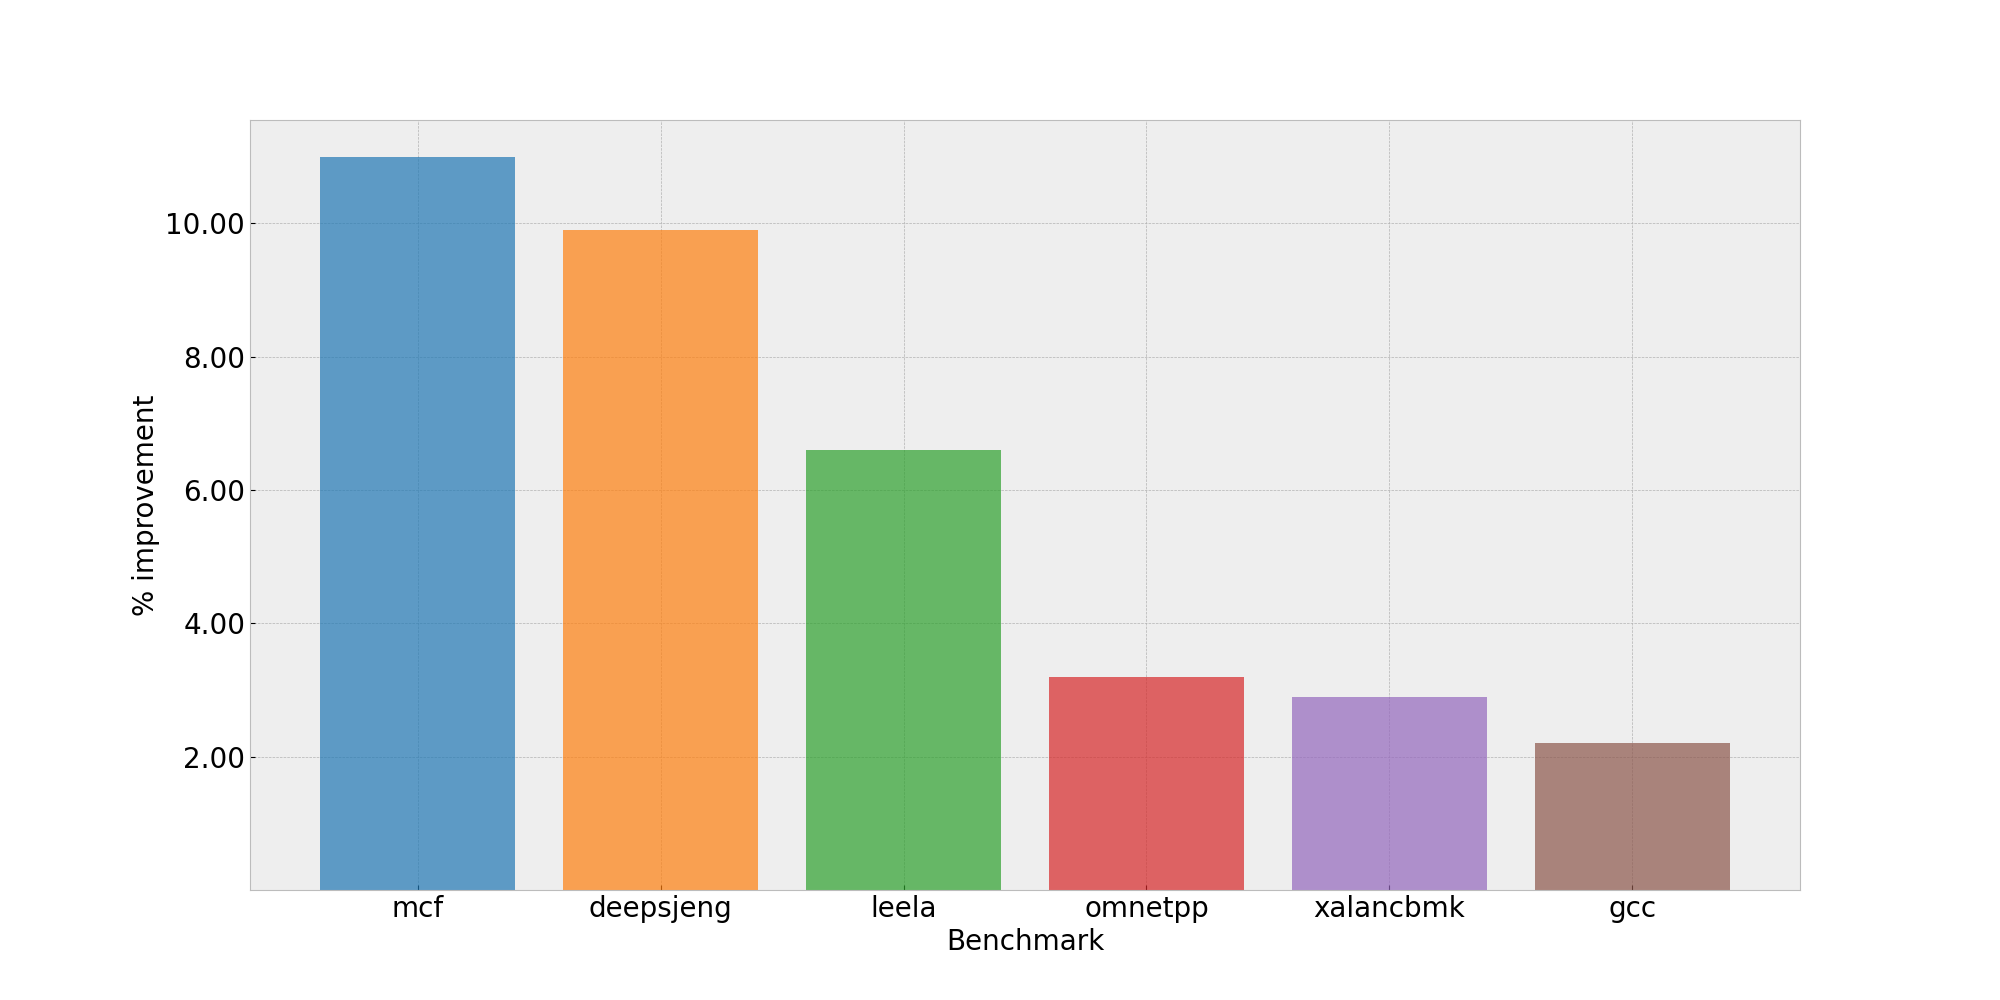
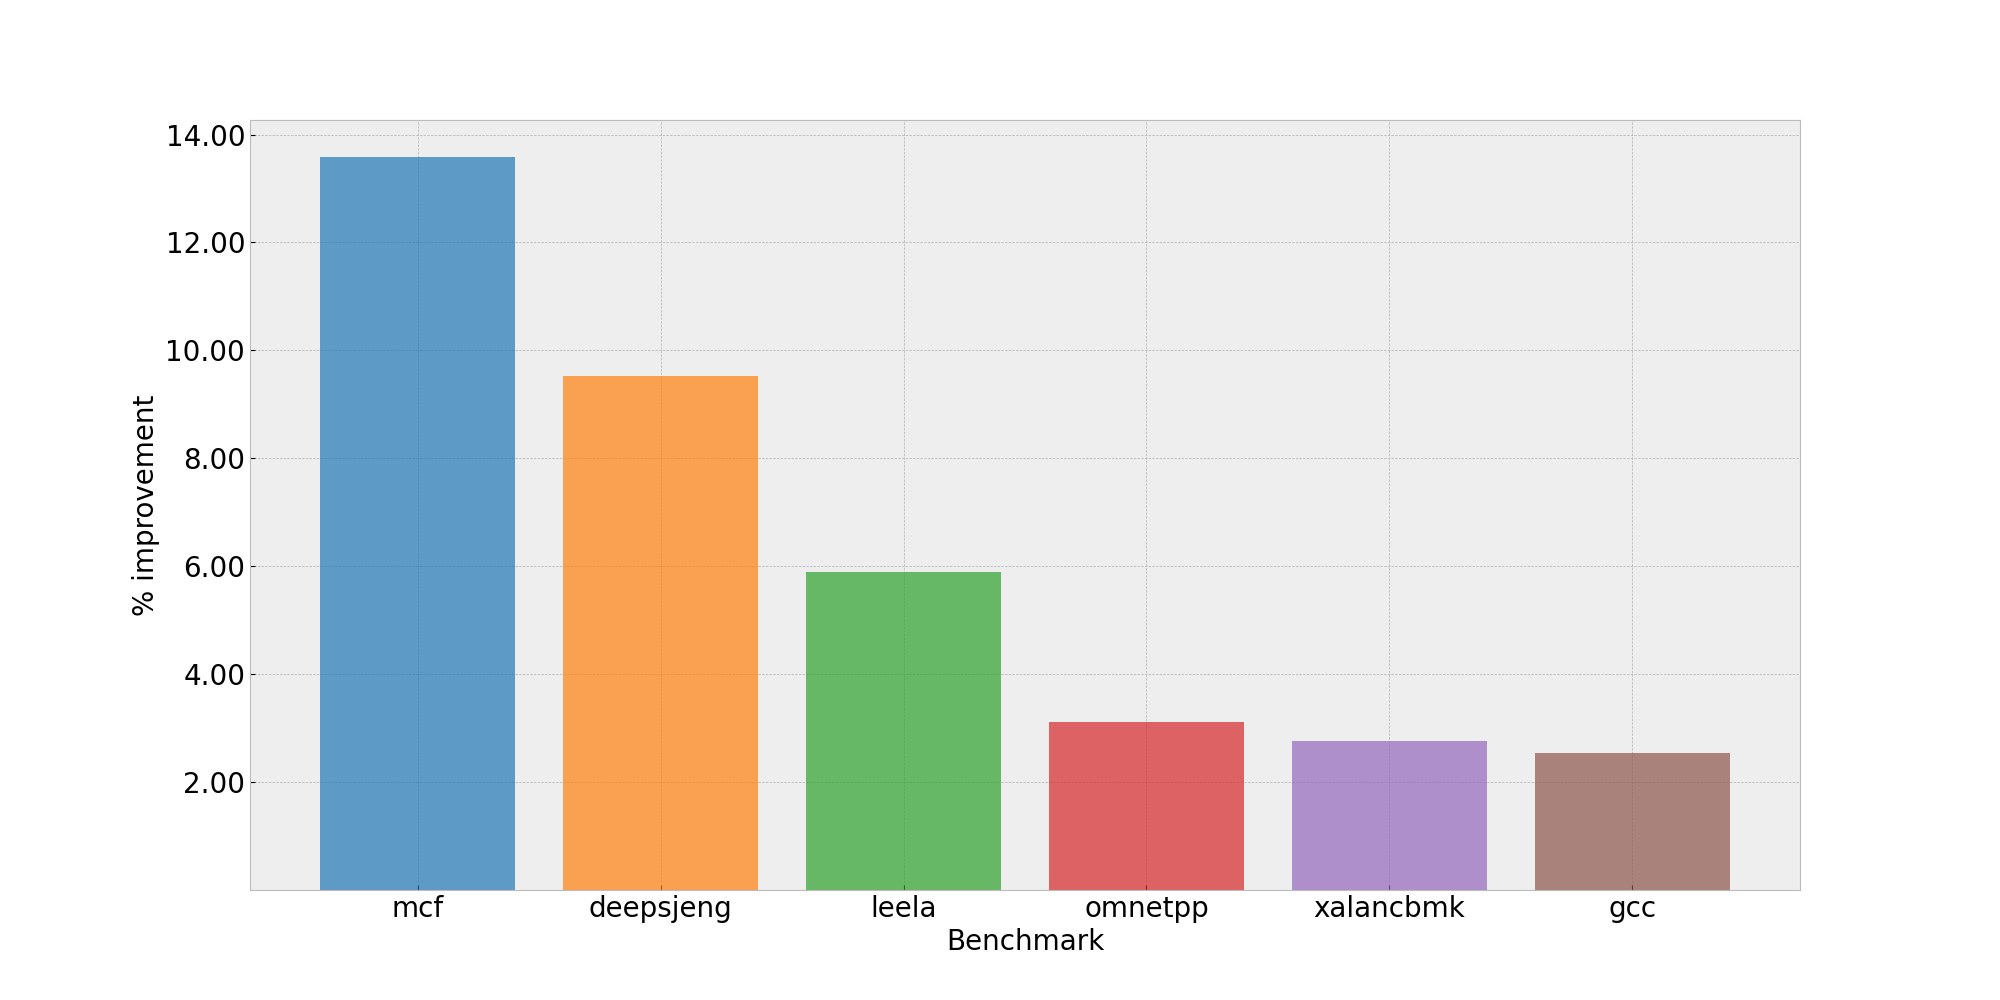
Update GCC LTO benchmark results and images

diff --git a/content/learning-paths/servers-and-cloud-computing/gcc-lto/performance-uplift.md b/content/learning-paths/servers-and-cloud-computing/gcc-lto/performance-uplift.md
@@ -10,7 +10,7 @@ layout: learningpathall
 
 Link-time optimization delivers measurable improvements across a range of workloads. The [SPEC CPU®2017](https://www.spec.org/cpu2017/) integer rate (SPECint2017 rate) benchmark suite provides a standardized way to measure these gains. SPEC CPU is an industry-standard benchmark widely used by CPU vendors and compiler teams to evaluate and compare performance. While these benchmarks don't necessarily reflect the characteristics of every real-world application, they illustrate LTO's potential impact across different optimization patterns.
 
-In this example, we compiled the benchmarks with GCC 15.1, with and without LTO, and executed them on an Arm Neoverse V2 CPU running Ubuntu 20.04 LTS.
+In this example, we compiled the benchmarks with and without LTO, and executed them on an Arm AGI CPU running Ubuntu 24.04 LTS.
 
 Common optimization flags between runs were as follows:
 
@@ -18,21 +18,21 @@ Common optimization flags between runs were as follows:
 -mcpu=native -Ofast -fomit-frame-pointer --param ipa-cp-eval-threshold=1 --param ipa-cp-unit-growth=80
 ```
 
-Across the benchmark suite, enabling LTO resulted in an improvement in the geometric mean score of approximately 3.4%. Some workloads benefited more noticeably:
+Across the benchmark suite, enabling LTO resulted in an improvement in the geometric mean score of approximately 3.6%. Some workloads benefited more noticeably:
 
-- `mcf` (+11%)
-- `deepsjeng` (+9.9%)
-- `leela` (+6.6%)
+- `mcf` (+13.6%)
+- `deepsjeng` (+9.5%)
+- `leela` (+5.9%)
   
 These results highlight how workloads with significant cross-module interaction—particularly those with many function calls across translation units—benefit from the additional whole-program visibility provided by LTO.
 
-![Bar chart showing percentage performance improvements across SPEC CPU 2017 integer benchmarks with LTO enabled, displaying improvements ranging from near zero to 11 percent, with mcf showing the highest gain at 11 percent, deepsjeng at 9.9 percent, and leela at 6.6 percent alt-txt#center](specint_lto_improv.png "Performance uplift to Specint2017")
+![Bar chart showing percentage performance improvements across SPEC CPU 2017 integer benchmarks with LTO enabled, displaying improvements ranging from near zero to 14 percent, with mcf showing the highest gain at 13.6 percent, deepsjeng at 9.5 percent, and leela at 5.9 percent alt-txt#center](specint_lto_improv.png "Performance uplift to Specint2017")
 
 ### Code size considerations
 
 While performance improvements are often the primary motivation for enabling LTO, its impact isn't limited to execution speed. Link-time optimization can also significantly affect the final code size of an executable, with results varying depending on the application's structure.
 
-As shown in the chart above, LTO's impact on code size varies across different benchmarks. Some applications experience modest reductions (up to 10%), while others see increases of 15% or more. The variation reflects the balance between dead code elimination and aggressive optimizations like inlining and loop unrolling.
+As shown in the chart above, LTO's impact on code size varies across different benchmarks. Some applications experience significant reductions (up to 46%), while others see increases of 10% or more. The variation reflects the balance between dead code elimination and aggressive optimizations like inlining and loop unrolling.
 
 
 ![Bar chart displaying code size changes as percentages across SPEC CPU 2017 integer benchmarks with LTO enabled, showing both positive increases and negative reductions in binary size, with most benchmarks exhibiting modest changes between minus 10 and plus 15 percent alt-txt#center](specint_lto_size.png "Code size reduction to Specint2017")
